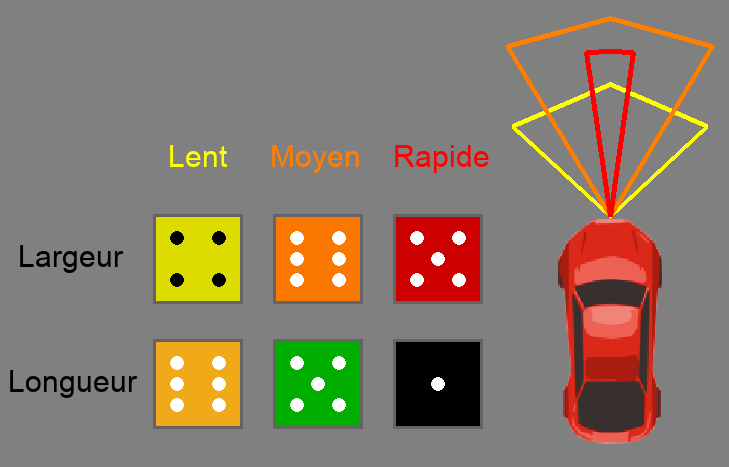
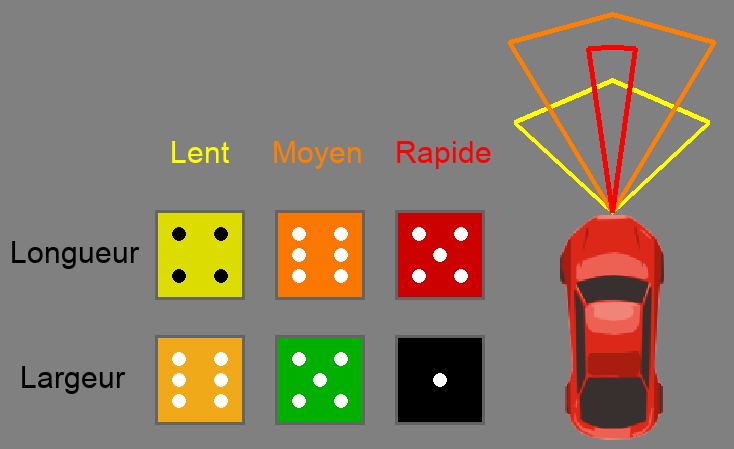
Changed the visual of the genetic parameters of the settings menu / Correction of car window (inverted texts) / centered images on the read me

diff --git a/src/render/display.py b/src/render/display.py
@@ -132,8 +132,8 @@ def show_car_window(car):
     var.WINDOW.blit(var.TEXT_SLOW, convert_to_new_window((rect_x + 175, rect_y + 150)))  # Draw the slow text
     var.WINDOW.blit(var.TEXT_MEDIUM, convert_to_new_window((rect_x + 277, rect_y + 150)))  # Draw the medium text
     var.WINDOW.blit(var.TEXT_FAST, convert_to_new_window((rect_x + 400, rect_y + 150)))  # Draw the fast text
-    var.WINDOW.blit(var.TEXT_LENGTH, convert_to_new_window((rect_x + 25, rect_y + 250)))  # Draw the length text
-    var.WINDOW.blit(var.TEXT_WIDTH, convert_to_new_window((rect_x + 15, rect_y + 375)))  # Draw the width text
+    var.WINDOW.blit(var.TEXT_LENGTH, convert_to_new_window((rect_x + 15, rect_y + 250)))  # Draw the length text
+    var.WINDOW.blit(var.TEXT_WIDTH, convert_to_new_window((rect_x + 25, rect_y + 375)))  # Draw the width text
 
 
 def erase_car_window():

diff --git a/src/data/variables.py b/src/data/variables.py
@@ -50,8 +50,8 @@ SCALE_RESIZE_Y = 1  # Scale of the window after resizing on the y-axis
 TEXT_SLOW = LARGE_FONT.render('Lent', True, (255, 255, 0), (128, 128, 128))  # Text of the slow button
 TEXT_MEDIUM = LARGE_FONT.render('Moyen', True, (255, 128, 0), (128, 128, 128))  # Text of the medium button
 TEXT_FAST = LARGE_FONT.render('Rapide', True, (255, 0, 0), (128, 128, 128))  # Text of the fast button
-TEXT_LENGTH = LARGE_FONT.render('Largeur', True, (0, 0, 0), (128, 128, 128))  # Text of the length button
-TEXT_WIDTH = LARGE_FONT.render('Longueur', True, (0, 0, 0), (128, 128, 128))  # Text of the width button
+TEXT_LENGTH = LARGE_FONT.render('Longueur', True, (0, 0, 0), (128, 128, 128))  # Text of the length button
+TEXT_WIDTH = LARGE_FONT.render('Largeur', True, (0, 0, 0), (128, 128, 128))  # Text of the width button
 
 
 # IMAGES

diff --git a/src/menus/dice_menu.py b/src/menus/dice_menu.py
@@ -96,8 +96,8 @@ class DiceMenu:
         var.WINDOW.blit(var.TEXT_SLOW, (convert_to_new_window((self.x + x1 + 30, self.y + 50))))
         var.WINDOW.blit(var.TEXT_MEDIUM, (convert_to_new_window((self.x + x2 + 14, self.y + 50))))
         var.WINDOW.blit(var.TEXT_FAST, (convert_to_new_window((self.x + x3 + 14, self.y + 50))))
-        var.WINDOW.blit(var.TEXT_LENGTH, (convert_to_new_window((self.x + 20, self.y + 350))))
-        var.WINDOW.blit(var.TEXT_WIDTH, (convert_to_new_window((self.x + 30, self.y + 160))))
+        var.WINDOW.blit(var.TEXT_LENGTH, (convert_to_new_window((self.x + 22, self.y + 160))))
+        var.WINDOW.blit(var.TEXT_WIDTH, (convert_to_new_window((self.x + 35, self.y + 350))))
 
         # Display the car
         x, y = self.x + 750, self.y + 275

diff --git a/src/data/analyze_data.py b/src/data/analyze_data.py
@@ -134,7 +134,7 @@ def analyze_genetic_algorithm():
     plt.title('Box-plot du nombre de générations nécessaire pour compléter un tour\n avec 2 algorithmes génétiques différents (sur 150 essais)')
     plt.ylim(0, 15)  # Adjust the y-axis as needed
     plt.ylabel('Nombre de générations')
-    pylab.xticks([1, 2], ['Mutation seulement', 'Crossover puis mutation'])  # Add legend
+    pylab.xticks([1, 2], ['Mutation seulement', 'Croisements puis mutation'])  # Add legend
 
     plt.savefig('algo_gen.png')
     plt.show()

diff --git a/README.md b/README.md
@@ -32,7 +32,9 @@ python3.8 src/main.py
 
 ## Fonctionnalités
 
-![menu](/images/menu.png)
+<p align="center">
+  <img src="/images/menu.png" alt="Capture d'écran de l'application">
+</p>
 
 Après avoir lancé le programme, vous arrivez directement dans l'application. Le bouton tout en haut à gauche permet
 d'ouvrir un menu permettant de modifier les paramètres de la simulation. Ces paramètres sont expliquées plus bas dans 
@@ -47,7 +49,9 @@ de la couleur, des paramètres ou suppression de la voiture)
 Le bouton 'Capter les dés' permet d'utiliser la caméra pour reconnaître le score des différents dés. Une fenêtre 
 s'affiche  et on peut y voir les dés ainsi que les scores de chaque dé.
 
-![dice](/images/dice.png)
+<p align="center">
+  <img src="/images/dice.png" alt="Capture d'écran de la reconnaissance des dés">
+</p>
 
 Il faut attendre un peu que le score se stabilise, et lorsque c'est bon, on peut cliquer n'importe où pour quitter
 cette fenêtre. Il y a alors la possibilité de modifier la valeur des dés en cas d'erreurs. Les dés à utiliser doivent
@@ -101,12 +105,15 @@ Les paramètres pouvant être modifiés sont les suivants :
 
 
 ## Explications des paramètres des voitures :
+
 Le système de contrôle se base sur le champ de vision des voitures. Les différents véhicules ont tous les mêmes 
 caractéristiques de base : taille, accélération, vitesse maximale, force du freinage… La seule différence est le 
 champ de vision du pilote, représenté par un cône. Un cône peut être représenté avec deux dés : un dé pour la largeur
 du cône, et un dé pour la longueur du cône. Les valeurs des dés indiquent la taille du cône.
 
-![cones](/images/cones.png)
+<p align="center">
+  <img src="/images/cones.png" alt="Exemple de cônes de détection">
+</p>
 
 Selon la vitesse à laquelle roule la voiture, le pilote n’a pas forcément le même champ de vision. C’est par 
 exemple le cas dans la réalité, avec un champ de vision qui a tendance à se rétrécir au fur et à mesure que la 
